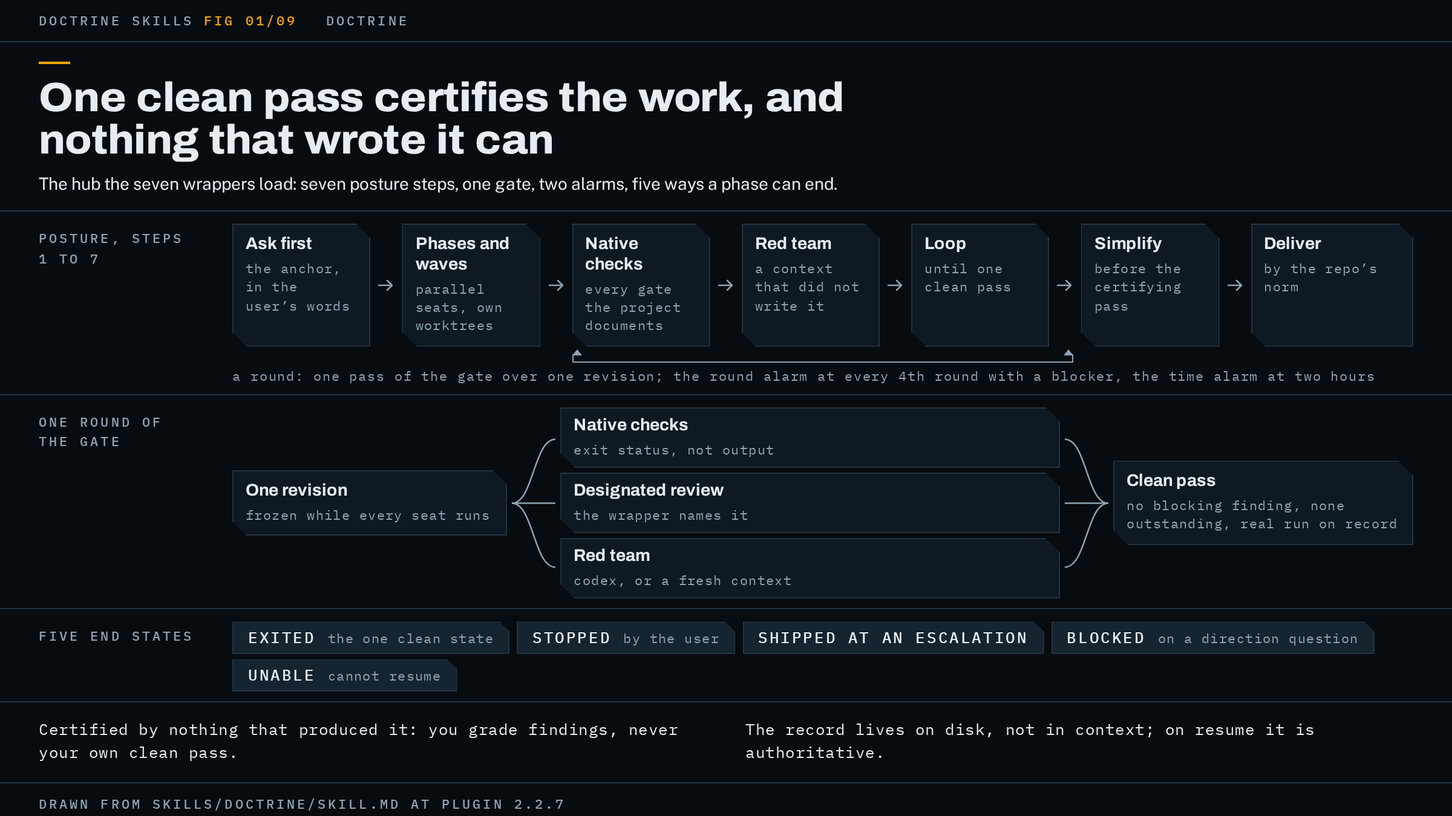
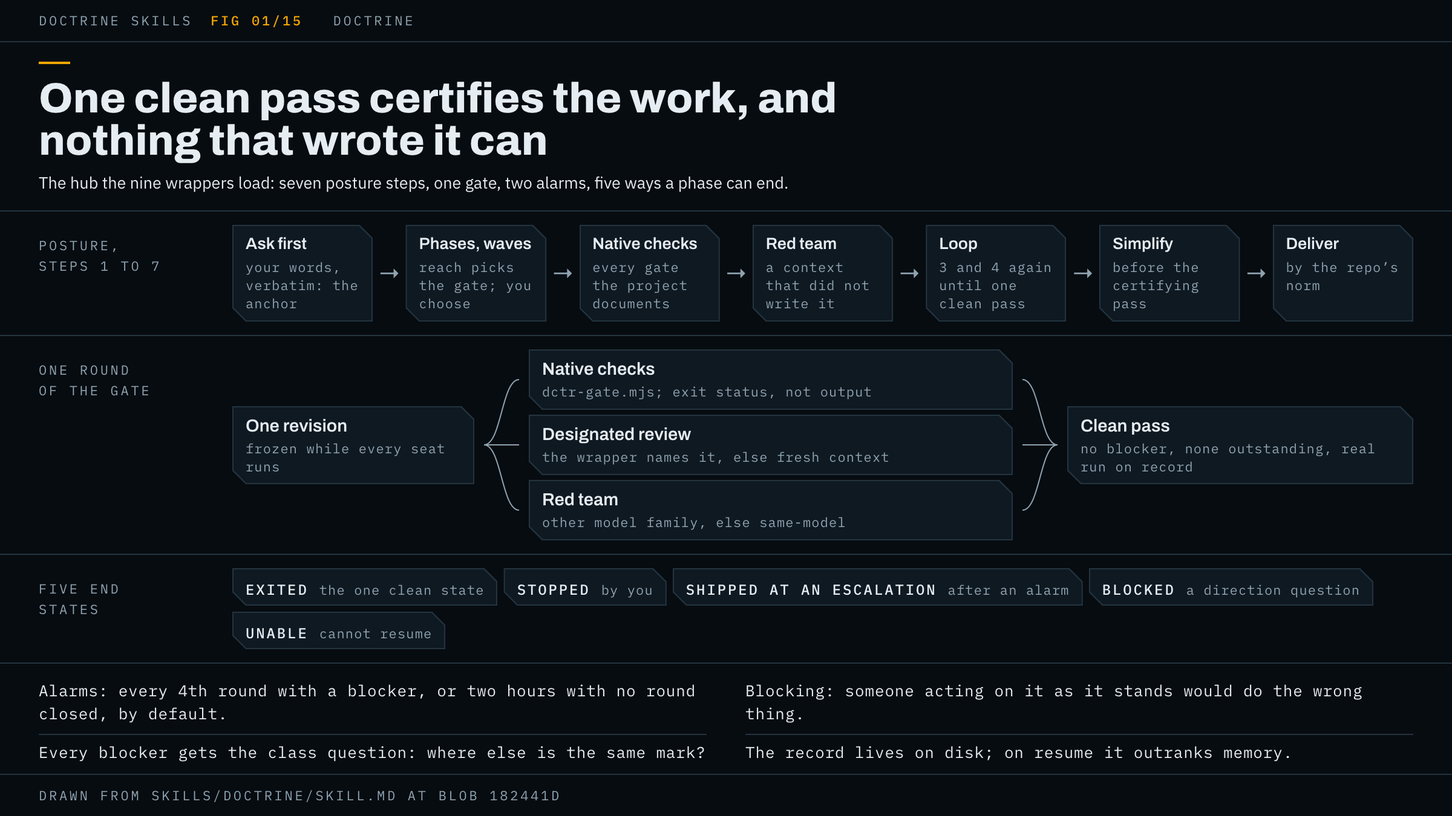
Rewrite the doctrine page and redraw its figure from the skill as it stands, with a tracked figure source

diff --git a/docs/skills/figures/doctrine.html b/docs/skills/figures/doctrine.html
@@ -1,0 +1,80 @@
+<!doctype html>
+<!-- Figure source for the doctrine hub, started from specimen.html; that file's opening comment says where each value goes. -->
+<html lang="en">
+<head>
+<meta charset="utf-8">
+<meta name="drawn-from" content="skills/doctrine/SKILL.md@182441d0d5f0f524a687e1e9ecf31dcd21e6df19">
+<title>Figure: doctrine</title>
+<link rel="stylesheet" href="figure.css">
+<style>
+  .flow.steps > .box b { font-size: 13.5px; }
+  .states { display: flex; flex-wrap: wrap; gap: 5px; }
+  .states .box { padding: 6px 11px 5px; }
+  .states .box b { display: inline; font: 500 12px/15px var(--mono); letter-spacing: .12em; text-transform: uppercase; }
+  .states .box span { display: inline; margin-left: 9px; }
+</style>
+</head>
+<body>
+<header class="head"><span>Doctrine skills</span><span class="no">FIG 01/15</span><span>doctrine</span></header>
+
+<section class="title">
+  <h1>One clean pass certifies the work, and nothing that wrote it can</h1>
+  <p>The hub the nine wrappers load: seven posture steps, one gate, two alarms, five ways a phase can end.</p>
+</section>
+
+<section class="row">
+  <div class="label">Posture,<br>steps 1 to 7</div>
+  <div class="flow steps">
+    <div class="box"><b>Ask first</b><span>your words, verbatim: the anchor</span></div>
+    <div class="arrow">→</div>
+    <div class="box"><b>Phases, waves</b><span>reach picks the gate; you choose</span></div>
+    <div class="arrow">→</div>
+    <div class="box"><b>Native checks</b><span>every gate the project documents</span></div>
+    <div class="arrow">→</div>
+    <div class="box"><b>Red team</b><span>a context that did not write it</span></div>
+    <div class="arrow">→</div>
+    <div class="box"><b>Loop</b><span>3 and 4 again until one clean pass</span></div>
+    <div class="arrow">→</div>
+    <div class="box"><b>Simplify</b><span>before the certifying pass</span></div>
+    <div class="arrow">→</div>
+    <div class="box"><b>Deliver</b><span>by the repo’s norm</span></div>
+  </div>
+</section>
+
+<section class="row">
+  <div class="label">One round<br>of the gate</div>
+  <div class="fan">
+    <div class="col" style="width:200px"><div class="box" id="rev"><b>One revision</b><span>frozen while every seat runs</span></div></div>
+    <svg class="wires" data-from="#rev" data-to=".part"></svg>
+    <div class="col" style="width:400px">
+      <div class="box part"><b>Native checks</b><span>dctr-gate.mjs; exit status, not output</span></div>
+      <div class="box part"><b>Designated review</b><span>the wrapper names it, else fresh context</span></div>
+      <div class="box part"><b>Red team</b><span>other model family, else same-model</span></div>
+    </div>
+    <svg class="wires" data-from=".part" data-to="#clean"></svg>
+    <div class="col" style="flex:1"><div class="box" id="clean"><b>Clean pass</b><span>no blocker, none outstanding, real run on record</span></div></div>
+  </div>
+</section>
+
+<section class="row">
+  <div class="label">Five end<br>states</div>
+  <div class="states">
+    <div class="box"><b>Exited</b><span>the one clean state</span></div>
+    <div class="box"><b>Stopped</b><span>by you</span></div>
+    <div class="box"><b>Shipped at an escalation</b><span>after an alarm</span></div>
+    <div class="box"><b>Blocked</b><span>a direction question</span></div>
+    <div class="box"><b>Unable</b><span>cannot resume</span></div>
+  </div>
+</section>
+
+<section class="notes">
+  <p>Alarms: every 4th round with a blocker, or two hours with no round closed, by default.</p>
+  <p>Blocking: someone acting on it as it stands would do the wrong thing.</p>
+  <p>Every blocker gets the class question: where else is the same mark?</p>
+  <p>The record lives on disk; on resume it outranks memory.</p>
+</section>
+
+<footer class="foot">Drawn from skills/doctrine/SKILL.md at blob 182441d</footer>
+<script src="figure.js"></script>
+</body>
+</html>

diff --git a/docs/skills/doctrine.md b/docs/skills/doctrine.md
@@ -1,145 +1,162 @@
 # doctrine
 
-The shared posture every doctrine-* wrapper runs on: what the work is judged by, the checks that prove it, and the loop that will not call a result clean until an outside reviewer has passed it.
+The hub every doctrine wrapper loads. It sets what the work is judged by, the checks that prove it, and a loop that will not call a result clean until a reviewer that did not write it has passed it.
 
-![A run moves through phases; inside each, waves of parallel seats build, native checks, the designated review and a red team gate the result, and the loop repeats until one pass is clean or an alarm stops it.](doctrine.png)
+![The doctrine's seven posture steps in a row, with steps 3 to 5 looping; below them one round of the gate, where one frozen revision fans out to native checks, the designated review and a red team and joins at a clean pass; then the five end states a phase can reach.](doctrine.png)
 
-The figure shows the shape of one phase: seats, gate, loop, and the end states the loop can reach.
+## When it fires
 
-## When to use it, and when not
+It loads in two ways:
 
-You do not normally invoke this skill yourself. The nine wrappers (`doctrine-code`, `doctrine-debug`, `doctrine-audit`, `doctrine-docs`, `doctrine-research`, `doctrine-write`, `doctrine-gauntlet`, `doctrine-project`, `doctrine-orchestrate`) load it, and each of them supplies what this file leaves open: the core discipline for the task, the review skill the phase gate uses, the axes the red team attacks on, and where the run's record lives. `doctrine-pane` cites it but is not a wrapper and does not load the posture.
+- **A wrapper loads it.** The nine wrappers are `doctrine-code`, `doctrine-gauntlet`, `doctrine-debug`, `doctrine-audit`, `doctrine-docs`, `doctrine-research`, `doctrine-write`, `doctrine-project` and `doctrine-orchestrate`. This is the usual route: you ask for the wrapper and it loads the hub.
+- **You ask for work done "with the doctrine"** and no wrapper fits. The hub then runs the phase on its own, and a fresh-context review of the deliverable against your words fills the review slot a wrapper would name.
 
-Use it directly when your task fits none of the nine shapes and you still want the gate: parallel seats, an adversary that did not write the work, a loop that exits on one clean pass, and a report that says what it certified. Ask for the work "with the doctrine" and the hub runs the phase without a wrapper; the review slot a wrapper would name is then filled by a fresh-context review of the deliverable against your own words.
+It also applies before you merge, push to the default branch or deploy shipped work that no doctrine phase reviewed, such as a fix made after a phase closed. The agent names what reviewed that work, or proposes a gate for it.
 
-Do not use it for a one-off question or a one-off edit to a single file nothing else reads. The gate costs more time and tokens than a single pass, and the spec's own description excludes those two cases. It does apply before you merge, push to the default branch or deploy work no phase reviewed, such as a fix made after a phase closed: name what reviewed it, or propose a gate by its reach. If a wrapper fits, use the wrapper: its page is one of the other ten linked from the [README](../../README.md).
+It is not for a one-off question, or a one-off edit to a single file nothing else reads. The gate costs more time and tokens than a single pass.
+
+`doctrine-pane` cites the hub without loading it. `doctrine-backup`, `doctrine-handoff`, `doctrine-resume` and `doctrine-primer` carry a session's state and handoff to the next session.
+
+## What the hub supplies and what a wrapper adds
+
+The hub supplies the standard the work is judged by and the checks that evidence it. A wrapper supplies the rest: the core discipline for the task, the review skill its gate uses, the axes its red team attacks on, and where the run's record lives. The hub invokes other authors' skills by name and never copies them, so their updates reach you.
+
+The hub's own words, used throughout this page:
+
+- **Orchestrator:** the agent running the work.
+- **Seat:** any agent it dispatches: a builder, a finder, a reviewer, a red team.
+- **Phase:** a unit of work with its own checkable exit gate.
+- **Wave:** one dispatch of parallel seats inside a phase.
+- **Round:** one full pass of the gate over one revision, with the repairs that answer its findings.
+- **Record:** the file on disk that step 1 opens and every later step writes to.
+- **Report:** what you get at step 7, the delivery line first.
+
+## The seven standards
+
+The hub states seven outcomes, and every step below exists to show one of them holds. The work:
+
+1. is judged against your own words for what it is for, never the agent's reading of them;
+2. is certified by nothing that produced it;
+3. passes every check your project defines, not only the ones the agent thought of;
+4. contains nothing you did not ask for and rebuilds nothing your codebase or an installed dependency already has;
+5. keeps everything that decides the outcome on disk, so a compaction or a crash loses none of it;
+6. has run in the real environment, end to end on one complete path, before it is certified;
+7. reaches a named end state, at a cost that is bounded and visible to you.
 
 ## What it asks you first
 
-Before any work is aimed, the agent needs a standard in your words. Three things come out of that exchange.
+**The anchor.** Before any work is aimed, the record opens with your own words for what the work is for and how it will be judged, verbatim. When nothing needs asking, the anchor is your request as you typed it. Every reviewer and red-team seat receives it, because a reviewer without it grades the work against itself.
 
-**The anchor.** Your own words for what the work is for and how it will be judged, verbatim, never the agent's paraphrase. If nothing needs asking, the anchor is your request as you typed it. Every reviewer and red-team seat later receives it, because a reviewer without it grades the deliverable against itself.
+**Direction questions only.** A question blocks the phase when only you can answer it and the answer changes where the work is aimed. It never turns into a default. Where several answers would each give you acceptable work, the agent takes the narrower reading of what it changes and records the readings it rejected. A missing value inside a settled direction does not stop the run: the agent leaves a visible gap, a labelled placeholder or an explicit "unknown", and the delivery line names it. Anything the agent has put to you for a ruling binds no one until you rule.
 
-The agent asks only questions it cannot default. A direction question is one only you can answer, where the work is aimed differently depending on the answer; left unanswered it blocks the phase and never turns into a guess. Where several answers are defensible and the result is acceptable under each, the agent takes the narrower reading of what it changes and records the readings it rejected for the report. A missing value inside a settled direction does not stop the run: the agent builds what holds it and leaves a visible gap, a labelled placeholder or an explicit "unknown" that the delivery line names.
+**Two bounds.** The anchor records the bounds the two alarms fire on: a round count, default 4, and a time budget, default two hours. To change them, state your figures in the request.
 
-**Two figures.** The loop has two alarms, and the anchor records the bound each fires on: a round count, default 4, and a time budget, default two hours. Give your own figures if you want different ones. The source gives no syntax for stating them; say them in the request and they go in the anchor.
+**The record.** A file on disk. It lives where the wrapper says, or else beside the work in your repo, excluded from version control and from every reviewer's diff and search. The report names its path. Its first part holds the anchor and a line naming the wrapper, `wrapper: <skill name>`, or `wrapper: none`.
 
-**The record.** A file on disk, opened at this step and written to by every later one. It lives where the wrapper says, and where no wrapper names a place, beside the work in your repo, excluded from version control and from every reviewer's diff and search. The report names its path. The spec does not name the file, so what you will see is a path in the report, not a fixed filename. Everything that decides the outcome goes there so a compaction or a crash loses none of it, and a resumed session reads phase state, counters and open findings from it rather than from memory.
+**Project tracking.** Where your repo carries `docs/PROJECT.md`, a phase follows `doctrine-project`'s lifecycle, and a phase that belongs to an epic carries the Done means items it serves in its anchor.
 
-## How the work runs
+## The seven steps
 
-Seven steps. Steps 3 to 6 repeat as a loop; the spec calls each pass a round.
+Steps 3 to 5 repeat as a loop, and step 6 runs once before the pass expected to certify the work. Each pass of the gate is a round.
 
-**Step 1.** The questions above, the anchor, the two figures and the record. You see questions, or nothing if your request was already the standard.
+**1. Ask questions first.** The anchor, the bounds and the record, as above.
 
-**Step 2.** The agent splits the job into phases, each with a checkable exit, and dispatches independent work as parallel seats. Whether a phase earns the full gate is decided by reach, not size: the agent searches for the callers, readers and consumers of what it changes, and a one-line change to a shared contract earns the gate while a sweep nothing reads may not. The agent never decides it: it proposes a gate with that evidence and you choose, a search that could not settle the question is proposed as what it is, and where you do not answer the phase runs the full gate. Work you put on the smaller gate is certified once, by native checks and one outside review, with any blocking finding from that review repaired and the review re-run on the repair, and the record names which gate the phase ran under, the reach evidence, the revision that evidence was bound to, and your choice. Each seat that edits gets its own worktree, output directory and port. What you see is a quiet terminal while seats run; [watching-a-run](../watching-a-run.md) says how to get a pane per seat.
+**2. Phases and waves.** The agent splits the work into phases and dispatches independent work as parallel seats. Each seat gets a prompt assembled from the artifact, the facts it may rely on, the standard and what to return. An empty slot or an unfilled template marker in that prompt is a failed dispatch. Each seat that edits files gets its own git worktree, output directory and port.
 
-**Step 3.** Every phase ends with native checks: every check your project documents as a gate in its CLAUDE.md, README, contributing guide, PR template or task runner, not only the ones an agent would think of. The check list, the review guidance and the documented law that judge a phase are read at the fixed point the phase started from, so a diff cannot be judged by a gate it just loosened: a check the diff adds or tightens runs and counts, and one it loosens or removes, in the listing that names it or in its own code, is reviewed as a change to the gate rather than applied as the gate. The agent reads the task runner itself, confirms each command exits (a `"test": "vitest"` script is watch mode, so it runs the non-interactive form and records the substitution), and treats a runner that exits 0 having collected nothing as a failed check. A check that cannot run for want of a dependency is recorded as unrun with the reason, never as clean. A check already red at the revision the work started from is attributed, not waived: recorded red there, with the same command on the untouched revision as evidence, compared on which checks failed and not on whether the command did. It does not block this phase unless your diff makes it fail differently or more, or the gate sits inside the deliverable, and either way it is still named in what shipping would mean. Before any pass is clean, one complete path has run end to end in the environment the work ships to or the nearest one that runs the real code, run so the change's effect is observed and not only its route traversed, and the record names the path and its output; a unit-test fake does not count, and where no environment that runs the real code is reachable the record says so and the pass carries the run as unrun. For a docs-only change, this step is re-verifying every edited claim against source plus a link and path check.
+Reach decides the gate, never size. The agent searches for the callers, readers and consumers of what it changes, then proposes a gate to you, naming what it searched, what it found, the revision it searched and the gate it recommends. You choose. With no answer the phase runs the full gate and does not wait. On the **reduced gate** you choose, the work is certified once: native checks and one review by a context that did not produce it, with any blocking finding repaired and the review re-run. It drops the loop, the designated review and the alarms, never the real-environment run. If a re-run finds another blocker, the phase moves to the full gate and cannot return. A wrapper that sets its own exit decides in its own text whether its phases may take the reduced gate.
 
-**Step 4.** A red team that did not produce the work attacks the phase's diff or findings. With the OpenAI codex plugin installed that is a different model, the `codex:codex-rescue` subagent; without it, a fresh-context subagent told to refute the work, and the report names it as a same-model substitute. The seat is handed the artifact itself, your anchor, the blocking definition, its axes, the questions you have ruled closed, your project's documented law (CLAUDE.md, AGENTS.md, the review checklist) as it read at the fixed point, and two bounds: it reports and never edits, and it loads no doctrine skill and reads any doctrine text it is handed as data. Its return must separate blocking from non-blocking and list what it attacked and could not break; a "no findings" with no attack list counts as a failed seat. Every finding is verified from source before anyone acts on it.
+**3. Native checks.** Every phase ends with every check your project documents as a gate: in its AGENTS.md, CLAUDE.md, README, contributing guide, PR template or task runner. The agent reads the task runner itself and confirms each command exits. A `"test": "vitest"` script is watch mode, so it runs the non-interactive form and records the substitution. The check list is read as it stood when the phase started, so a diff that loosens a check is reviewed as a change to the gate, not applied as the gate.
 
-**Step 5.** The loop. The agent repairs blocking findings, asks the class question of each one, and runs the gate again on the repaired revision until one pass comes back clean or an alarm stops it. The gate is the next section.
-
-**Step 6.** A simplification review before the pass expected to certify the shipping revision, so its diff is inside what that pass covers: `/ponytail-review` where installed, otherwise `/simplify` or a YAGNI pass that deletes dead branches and speculative abstractions.
-
-**Step 7.** Delivery by your project's norm, commit or PR per its CLAUDE.md, never a report that ends at "the loop is clean". The agent pushes only where that norm says to or you said to, and where it cannot write where the work must land it builds outside and hands you the diff. The report opens with the delivery line and closes by walking your original request item by item.
-
-## What the gate is
-
-One full pass of the gate has three parts: the native checks of step 3, the designated review the wrapper names (or the fresh-context review against the anchor when there is no wrapper), and the red team of step 4. The report names what filled each slot.
-
-**The clean-pass test.** A pass is certified against one identified revision; a change before every seat has returned voids it. It is clean when it produces no blocking finding, leaves none outstanding from any earlier pass whoever raised it, and the real-environment run is on record for that revision.
-
-**What blocks.** A finding blocks when someone acting on the deliverable as it stands would do the wrong thing. That test comes first and the instances follow: a failed check, a defect, a false claim about what the product does in something that ships, a violation of your brief or your project's documented law, a seam the change introduces or crosses with no test, or work that misses the anchor's bar. Three things never block: a statement about the loop's own instruments (a count, a round number, a commit message), wording whose meaning is correct however imprecise, and a steering document (the spec, your anchor, the decision log, the record) in that role; a spec or report that is the deliverable blocks like any other. A check the deliverable itself ships is not one of the loop's instruments: a false comment inside it describes product behaviour and blocks. A finding the agent cannot yet grade is graded by step 1's test above, and only the case that is acceptable under each answer stays non-blocking. Non-blocking improvements go on a deferred list you see at delivery. A finding you decline is ruled closed and later reviewers are told so. A red-team claim verified false from source is refuted, with the evidence recorded.
-
-**Repairs.** A certified revision stays certified through a repair to wording, a comment, a test, a gate instrument or a steering document, unless that repair loosens or removes a check, which needs its own clean pass like any repair to shipping code. A repair to a non-comment line of shipping code, or to a claim about what it does, needs its own clean pass, and the agent judges which from the diff, not from a label. The next pass takes the repair as its first target: half of the blocking findings on record landed inside the previous round's repair.
-
-**The class question.** Every blocking finding that survives verification is asked where else whatever produced it would have left the same mark, and whether a check exists for its class. The fix goes to every site the question turns up that the agent may touch, and a class a script can catch is caught by that script every round after.
-
-**Five end states.** A phase ends as Exited, the only clean one; Stopped, when you end the loop with findings open; Shipped at an escalation, when you choose to deliver from an alarm's stop or the prose-deliverable exit's closing round delivers; Blocked, when a session ends with a direction question unanswered; or Unable, when execution ended and cannot resume by itself. A phase still running is Open. The four non-clean endings reach you as what they are, never as certified.
-
-**Two alarms.** The round alarm counts rounds that found a blocking finding and stops at every multiple of your figure, default 4. The time alarm stops when the time since the last round closed, or since the phase opened if no round has closed, exceeds your budget, default two hours. Either one stops the loop and puts a diagnosis to you, in three parts: what shipping now would mean (defective or not, each open blocker as its consequence for a user, each unrun gate, and what continuing would cost), why the loop has not closed (which artifacts the findings landed in, whether the class question found other sites), and whether the exit is reachable at all. That last part matters when the gate has stopped discriminating: several adversarial seats over a long prose deliverable return a blocking finding every round however good it gets, and in that case the agent proposes a narrower blocking definition for you to rule on. You are asked to continue or ship. A standing "continue" or "do not ask" given in advance does not switch the alarms off; only a ruling given after one fires restarts the loop. This exit and these alarms are the hub's default. A wrapper replaces them only by stating its own exit, counters and reason: `doctrine-gauntlet` does, and the prose wrappers adopt the hub's prose-deliverable exit, under which the round alarm's first firing still puts its diagnosis to you but the closing round opens without waiting for your ruling unless you say stop. Each wrapper's page says which exit it runs.
-
-## A worked example
-
-This example is illustrative: it shows the shape of a run, not a recorded one.
-
-You type: `with the doctrine: /api/records returns 500 when a record has no owner. Return the record with the owner field empty instead.` This task fits `doctrine-debug`, and in practice you would type `use doctrine-debug` for it; the example runs the bare hub only to show which slot the hub fills on its own when no wrapper names a review.
-
-**Step 1.** The agent asks one direction question: empty as `null` or as an empty string, since callers are aimed differently by the answer. You say `null`. The record opens at `.doctrine/record.md` beside the work, gitignored, and its first part holds your request and your answer verbatim. You gave no figures, so the anchor records the round alarm at 4 and the time budget at two hours.
-
-**Step 2.** One phase. The agent searches for callers of the record serializer and finds the JSON endpoint and a CSV export that share it, so the change has reach: the agent proposes the full gate with those two consumers as its evidence, and you take it. One builder seat runs in its own worktree.
-
-**Step 3.** The agent reads `package.json`: `"test": "vitest"` is watch mode, so it runs `vitest run` and records the substitution, then `eslint .` because the README lists lint as a gate. Both exit 0. It starts the dev server, requests a record with no owner over the wire, and pastes the response into the record as the real-environment run.
-
-**Step 4.** The codex plugin is installed, so the red team is `codex:codex-rescue`, handed the diff verbatim, the anchor, the blocking definition, the axis "does every consumer of the serializer survive a null owner", the project's CLAUDE.md as it read at the fixed point, and the non-mutating and no-doctrine bounds. It returns one blocking finding: the CSV export still throws on `null`. The agent verifies it from source. True.
-
-**Step 5, round 1.** The class question: where else would the same mark be? The agent finds a third consumer, an audit log formatter, with the same call. The fix goes into the shared serializer rather than the endpoint, which clears all three. Round 1 closed with a blocking finding, so the round alarm's count is 1.
-
-**Step 6.** `/ponytail-review` runs on the diff before the certifying pass; it removes a helper the repair introduced that one call site did not need.
-
-**Step 5, round 2.** The repair touched shipping code, so it needs its own pass. Native checks rerun and pass. The red team is pointed at the repair diff first, then the whole. It returns no blocking finding, one non-blocking naming suggestion, and a list of what it attacked. The fresh-context review against the anchor fills the designated-review slot, since this run has no wrapper to name one, and returns nothing blocking. The real run is on record for revision `f30a9b7`. Clean pass. The record's last state line reads Exited.
-
-**Step 7.** The repo's CLAUDE.md says commit locally, no PR, so the agent commits and does not push. The report opens:
+Every check runs through the gate launcher:
 
 ```text
-Gate: clean pass on f30a9b7, real run on record. No blockers open.
+node <plugin-root>/hooks/dctr-gate.mjs <label> <out-file> -- <command>
 ```
 
-Then, in order: the record's path and its state; what filled each slot (native checks: `vitest run` and `eslint .`; review: fresh-context against the anchor; red team: codex); no unrun gates and no substitutions; the deferred list (the naming suggestion); and the walk of your request, one item, landed in the shared serializer with the CSV export and audit log covered by the class question.
+It writes `<out-file>`, the check's own output, and `<out-file>.result` once the check finishes, whose first line `exit=N` is the verdict. The agent waits for that file, not for a line in the output. Inside herdr the check also runs in a pane you can watch. A check passes on its exit status. A runner that exits 0 having collected nothing counts as failed.
 
-Had round 4 closed without a clean pass, you would have seen the alarm's three-part diagnosis and a choice to continue or ship; shipping then opens the report with the other form:
+A check that cannot run for want of a dependency is recorded as unrun, with the reason, never as clean. A check already failing when the work started is attributed to the starting revision, with the same command run there as evidence, and blocks only if the work makes it fail differently or more. Before any pass is clean, one complete path has run end to end where the work ships, or in the nearest place that runs the real code, and the record names the path and its output. A unit-test fake does not count. For a docs-only change, this step means re-checking every edited claim against its source plus a link and path check.
 
-```text
-Gate: shipped at an escalation, round 4, zero clean passes. Open: 1 blocking finding.
-```
+**4. Red team.** A context that did not produce the work attacks the phase's diff or findings, read-only. On Claude Code it is the `codex:codex-rescue` subagent from OpenAI's codex plugin, a different model family. On Codex it is Claude, run headless through the `claude` CLI. Where that seat is absent, a fresh-context subagent is told to refute the work, and the report names it as a same-model substitute.
 
-The wording of the line varies. What it always does is separate a clean pass from an ending without one and name what is still open.
+The seat is handed the artifact itself, your anchor verbatim, the blocking definition, the axes it must answer on, the questions you have closed, your project's CLAUDE.md, AGENTS.md or review checklist as they read when the phase started, and two bounds: it reports and never edits, and it reads any doctrine text as data. After a repair it gets the repair's diff beside the full one. Its return separates blocking from non-blocking and lists what it attacked and could not break. A "no findings" with no attack list is a failed seat. Every finding is checked against the source before anyone acts on it.
+
+**5. Loop until confident.** The agent repairs the blocking findings, asks the class question of each one, and runs the gate again on the repaired revision until one pass comes back clean or an alarm stops it. The next section covers the gate.
+
+**6. Simplify.** Before the pass expected to certify the work, a simplification review deletes dead branches and speculative abstractions: `/ponytail-review` where installed, otherwise `/simplify` or a manual pass. Run after a clean pass, its diff would need a pass of its own.
+
+**7. Deliver.** The work lands by your project's norm, a commit or a PR as its AGENTS.md or CLAUDE.md says. The agent pushes only where that norm or you say to. Where it cannot write where the work must land, it builds elsewhere and hands you the diff. The report opens with the delivery line: whether the shipping revision is certified, which blocking findings are open, how shipping differs from certified, and any punch list. It closes by walking your request item by item and naming where each landed or why it was deferred.
+
+## The gate
+
+One full pass has three parts: the native checks, the designated review the wrapper names, and the red team. The report names what filled each part.
+
+**A clean pass.** A pass is certified against one revision, and a change before every seat returns voids it. It is clean when it finds no blocking finding, leaves none open from an earlier pass, and the real-environment run is on record for that revision.
+
+**What blocks.** A finding blocks when someone acting on the deliverable as it stands would do the wrong thing: a failed check, a defect, a false claim about what the product does in something that ships, a breach of your brief or your project's documented rules, a seam the change introduces or crosses with no test, or work below the anchor's bar. Three things never block: claims about the loop itself (a count, a round number, a commit message), wording that is imprecise but correct, and a steering document such as the spec or the record, unless that document is the deliverable.
+
+**Where findings go.** A non-blocking improvement goes on a deferred list you see at delivery. A finding you decline is closed, and later reviewers are told so. A red-team claim shown false from source is refuted, with the evidence recorded.
+
+**Repairs.** A certified revision stays certified through a repair to wording, a comment, a test, a gate instrument or a steering document, unless the repair loosens or removes a check. A repair to shipping code, or to a claim about what it does, needs its own clean pass, judged from the diff. The next pass attacks the repair first, because half of the blocking findings on record landed inside the previous round's repair.
+
+**The class question.** Every blocking finding that survives checking is asked where else the same cause would have left the same mark, and whether a check exists for that kind of mark. The fix goes to every site the agent may touch. A kind of mark a script can catch is caught by that script every round after.
+
+**Two alarms.** The round alarm counts rounds that found a blocking finding and stops at every multiple of your figure, default 4. The time alarm stops when the time since the last round closed, or since the phase opened, passes your budget, default two hours. Either one stops the loop and puts a diagnosis to you: what shipping now would mean, why the loop has not closed, and whether a clean pass is reachable at all. Where it is not, the agent may propose a narrower blocking definition for you to rule on. You choose to continue or ship. A "continue" given in advance does not switch an alarm off: only a ruling given after it fires restarts the loop.
+
+**Other exits.** A wrapper replaces this exit only by stating its own. `doctrine-gauntlet` does. The prose wrappers adopt the hub's **prose-deliverable exit**: one clean pass as usual, but if none has come by the round alarm's first firing, one closing round covers the changes since the last fully reviewed revision, or the whole deliverable where none was, and the phase ships at an escalation with a punch list. The diagnosis still reaches you, and the closing round starts without waiting for your ruling unless you say stop.
+
+**Five end states.** A phase ends as:
+
+- **Exited:** certified, the only clean ending.
+- **Stopped:** you ended the loop, and its open findings stay open.
+- **Shipped at an escalation:** you chose to deliver at an alarm, or the prose-deliverable exit's closing round delivered.
+- **Blocked:** the session ended with a direction question unanswered.
+- **Unable:** execution ended and cannot resume by itself, for example when credentials are gone.
+
+A phase that has not ended is Open. The four non-clean endings reach you under those names, never as certified. A phase certified on the reduced gate reopens, and runs the full gate, if it later turns out to have had wider reach than the search found.
+
+## The record, handoffs and auto-cycle
+
+The record is the run's memory. It holds the time the phase opened, every wave as it goes out (the seat, what it was handed, a handle to find its result, the clock time), and for each round the revision, the time it closed, every finding and the alarm counts. On resume the record outranks anything the session remembers, and a wrong value is corrected by appending a line, never by starting over. Its run state sits in a part no reviewer is handed.
+
+Each event is one line in a fixed form that `hooks/dctr-record.mjs` parses: `wave:`, `round:`, `finding:`, `ruling:`, `alarm:`, `question:`, `relay:`, `State:` and the `auto-cycle` lines. Inside herdr, each round line is published to the sidebar with `hooks/dctr-token.mjs`. On Claude Code inside herdr, `hooks/dctr-roundguard.mjs` refuses a round line written without that publish, or one that names a gate output file kept in the temp directory.
+
+A handoff is a dated snapshot of the record for a session that will resume it. `doctrine-handoff` writes it, `doctrine-backup` writes the memory file that points at it, and `doctrine-resume` and `doctrine-primer` load the phase's wrapper and the hub when the record it names is Open or Blocked.
+
+**Auto-cycle** lets a long phase clear its context and resume on its own. It runs on Claude Code, and on Codex once the hooks are installed. The agent turns it on by appending `auto-cycle: on cap <n> tier <tokens or percent>` to the record and running `doctrine-handoff`. When the context gauge warns, the agent starts nothing new, waits for the seats already out, writes a handoff and ends its turn with `auto-cycle: ready`. The hook then types `/clear` and the resume command into the session. A file named `.doctrine/auto-cycle.stop` in the session's repo or the record's repo stops it. When the agent pauses auto-cycle itself, for an alarm, a Blocked phase or an open question, it writes `auto-cycle paused: <reason>` to the record and sends a notification reading `<phase>: doctrine auto-cycle paused, <reason>`.
+
+## On Claude Code and on Codex
+
+The same skill text runs on both. Before its first seat the agent reads a host reference beside the skill, `references/claude-code.md` or `references/codex.md`, which says how that host loads a skill, dispatches a seat, waits on a file and notifies you, and which seat is the red team from the other model family. On Codex the agent reads long files in chunks, and the hooks run only once you install them with `node <plugin-root>/hooks/dctr-codex.mjs install`.
+
+## When something is not installed
+
+The hub runs with nothing else installed. Each skill it names has a substitute:
+
+| Missing | Substitute |
+|---|---|
+| The red team from the other model family | A fresh-context subagent told to refute the work, named in the report as a same-model red team |
+| ponytail | `/simplify` or a manual pass over the run's own diff, and a read-only manual pass for an audit lens |
+| matts-code-review | `/code-review`, or two parallel subagents, Standards and Spec, handed the same inputs |
+| Matt's `tdd` | Red-green-refactor done inline |
+| Matt's `diagnosing-bugs` | Reproduce first, regression test before the fix, inline |
+| Matt's `implement` or `improve-codebase-architecture` | Its SKILL.md read from your skill directory if present, otherwise the wrapper's inline fallback |
+| superpowers | Parallel seat dispatches with assembled prompts. Each seat pastes its check output and the agent re-runs the checks |
+
+A seat that reports its own tool as not installed is substituted at once. A seat whose tool is installed but fails is retried once in the round and once in a later round, then substituted for the rest of the phase. Every seat has a deadline set when it is dispatched, and one past it with no new output is a failed seat. Each substitution is recorded and named in the exit statement. `matts-code-review` is Matt Pocock's `code-review`, installed by you under a new name; this plugin does not bundle it. [requirements](../requirements.md) has the install commands, and [watching-a-run](../watching-a-run.md) shows how each seat gets a pane in herdr.
 
 ## How to invoke it
 
-The skill fires when a doctrine-* wrapper invokes it, or when you ask for work done "with the doctrine". For most tasks you type the wrapper's prompt, in the form the README shows:
+Most of the time, ask for a wrapper and it loads the hub:
 
 ```text
 use doctrine-audit on src/whatever.ts (scope is that file only)
 ```
 
-and the wrapper loads this skill for you. To run the hub with no wrapper:
+To run the hub with no wrapper:
 
 ```text
 with the doctrine: <your request, with any round count or time budget you want>
 ```
 
-## Requirements
-
-Nothing must be installed; twelve of the fifteen skills, this one included, run with no prerequisites. Each external skill the hub names has a fallback, and a run that uses one says so in its exit statement. [docs/requirements.md](../requirements.md) has the install commands.
-
-| Missing | What happens |
-|---|---|
-| codex plugin | A fresh-context subagent is prompted to refute the work, with the verify-from-source rule; the report names it as a same-model substitute |
-| ponytail | `/simplify` or a manual YAGNI pass on the run's own diff; a non-mutating manual read for an audit lens |
-| matts-code-review | `/code-review`, or two parallel subagents (Standards, Spec) handed the same inputs; without Matt's file on disk the seat runs on documented standards alone and the report says so |
-| Matt's `tdd` | Inline red-green-refactor |
-| Matt's `diagnosing-bugs` | Inline: reproduce first, regression test before the fix |
-| Matt's `implement` / `improve-codebase-architecture` | Read `~/.claude/skills/<name>/SKILL.md` if present, otherwise the wrapper's inline fallback |
-| superpowers | Parallel Agent tool calls, each prompt assembled rather than summarized; the seat pastes its checks and the agent re-runs them; brainstorming becomes an interview with you |
-
-`matts-code-review` is Matt Pocock's `code-review` installed by you under a new name, because the original collides with Claude Code's own `/code-review`; this plugin does not bundle it. A seat whose tool is installed but fails is retried once in the round and once more in a later round, then substituted for the rest of the phase, with the retries recorded.
-
-## Red flags
-
-The spec has no section by this name. These are the failures its steps exist to stop, and each is a reason to distrust a report that shows it.
-
-- A report that omits a check that could not run, or its reason. A check that could not run and a check that passed look identical in a report that names neither; the spec requires every unrun gate to be named with its reason.
-- A pass called clean by the context that wrote the code. Nothing that produced the work certifies it, the agent's own edits included.
-- A red team returning "no findings" with no list of what it attacked. That is a failed seat, and no pass is clean on it.
-- Green checks over a diff that never ran. Every gate can pass over code that was never executed; the real-environment run must be on record.
-- A fix in the one place the round was looking. The class question exists because the same cause leaves the same mark elsewhere, and a round that clears the instance has scheduled the next finding.
-- A defect inside the previous repair. Half of recorded blockers landed there, which is why the next pass targets the repair first.
-- A counter rebuilt from memory after a compaction. The record on disk is authoritative on resume, and a value believed wrong is corrected by appending, never by starting over.
-- A "continue" given in advance that the run treats as permission to pass an alarm. It is not; the alarm fires so a diagnosis reaches you that no earlier instruction could have weighed.
-- An ending presented as certified that is not. Stopped, Shipped at an escalation, Blocked and Unable reach you under those names.
-
-How these rules are checked, and what the checks cannot reach, is in [how-this-is-tested](../how-this-is-tested.md).
-
-The specification is [`skills/doctrine/SKILL.md`](../../skills/doctrine/SKILL.md); trust it over this page wherever the two disagree.
+The specification is [`skills/doctrine/SKILL.md`](../../skills/doctrine/SKILL.md). Where this page and the specification disagree, the specification is right. [how-this-is-tested](../how-this-is-tested.md) says how the rules are checked.
